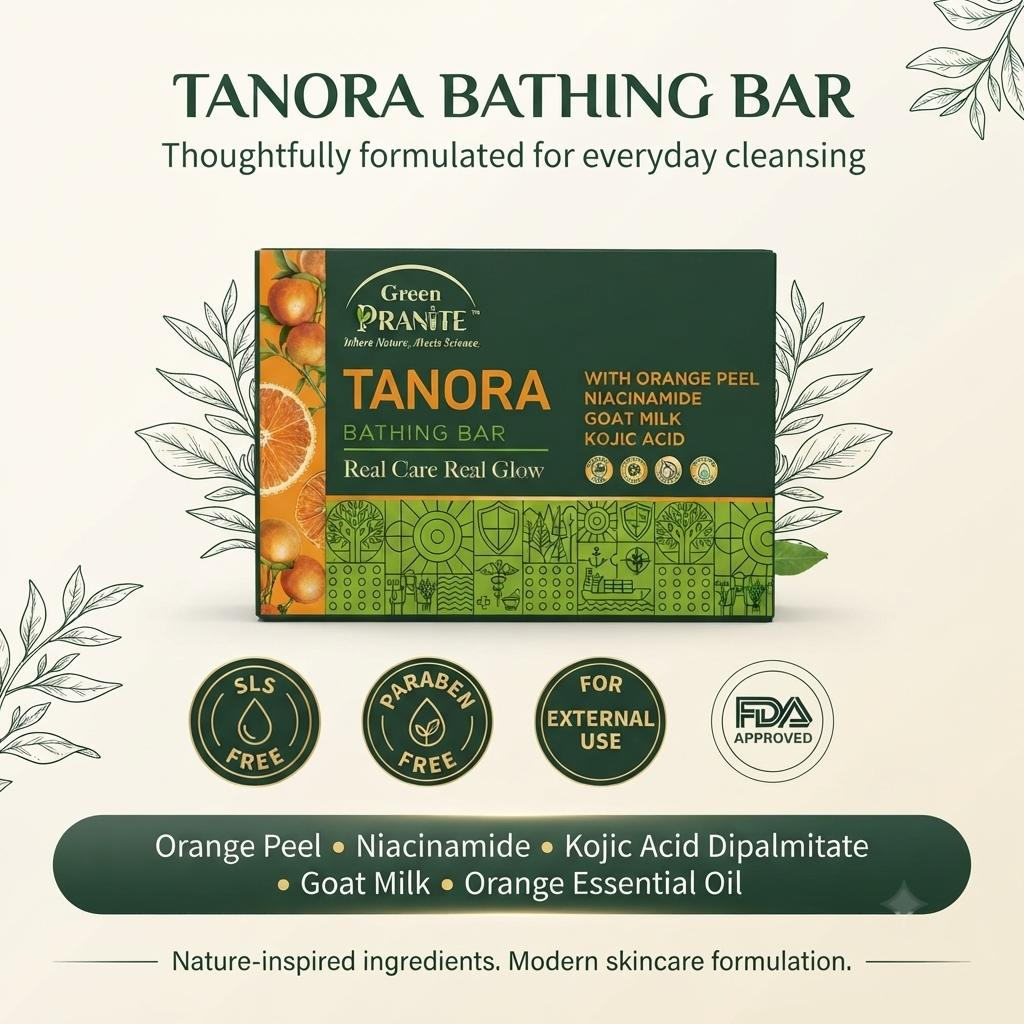
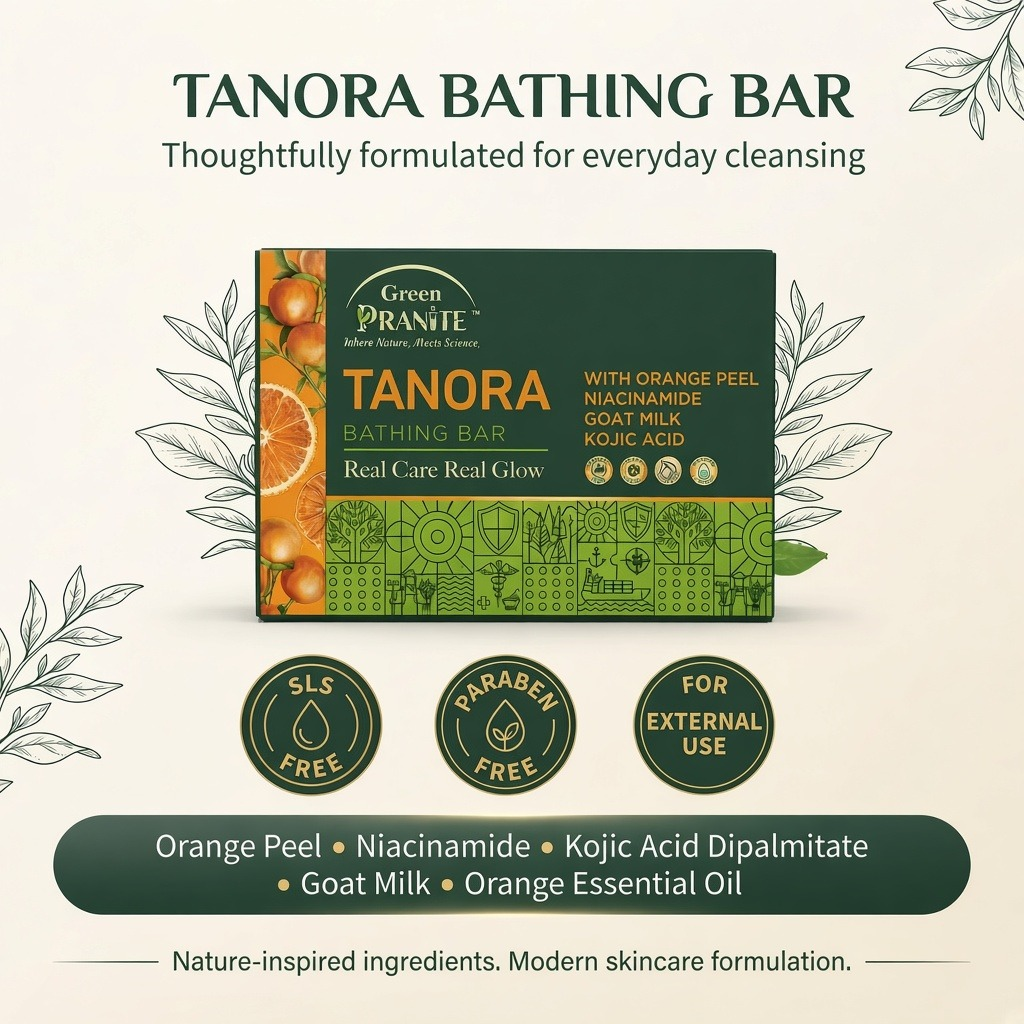
Remove FDA claims from TANORA marketing
This update removes FDA-approved messaging from TANORA Bathing Bar marketing materials, including the hero image alt text, product copy, and product claim metadata. It keeps the product positioning focused on cruelty-free and sulfate/paraben-free attributes while aligning the content with the current approved brand claims.

diff --git a/src/components/home/TanoraHighlight.tsx b/src/components/home/TanoraHighlight.tsx
@@ -80,7 +80,7 @@ export function TanoraHighlight({
           <div data-card className="relative aspect-square overflow-hidden rounded-[2rem] bg-cream-100 will-change-transform md:rounded-[2.5rem]">
             <Image
               src={bathingBar}
-              alt="TANORA Bathing Bar packaging surrounded by botanical line art, with SLS-free, paraben-free and FDA approved marks."
+              alt="TANORA Bathing Bar packaging surrounded by botanical line art, with SLS-free and paraben-free marks."
               fill
               placeholder="blur"
               sizes="(min-width: 768px) 46vw, 92vw"
@@ -138,7 +138,7 @@ export function TanoraHighlight({
           </Reveal>
           <Reveal delay={0.26}>
             <p className="mt-6 flex items-center gap-2 text-sm text-sage-300">
-              <Icon name="truck" className="size-4" /> Free standard shipping · FDA-approved · Zero sulfates &amp; parabens
+              <Icon name="truck" className="size-4" /> Free standard shipping · Zero sulfates &amp; parabens
             </p>
           </Reveal>
         </div>

diff --git a/src/content/products.ts b/src/content/products.ts
@@ -52,7 +52,7 @@ const tanora: ProductContent = {
     closingTitle: "Pure. Honest. Uncompromising.",
     closing:
       "You deserve premium skincare you can trust implicitly. Designed for daily use on both the face and body, TANORA delivers a dense, spa-like lather that respects your skin's delicate balance.",
-    claims: ["FDA-Approved", "100% Cruelty-Free", "Zero Sulfates & Parabens"],
+    claims: ["100% Cruelty-Free", "Zero Sulfates & Parabens"],
     signoff: "Experience the profound confidence of truly healthy, harmonious skin. Real care. Real results.",
   },
   benefits: [
@@ -112,7 +112,6 @@ const tanora: ProductContent = {
     { icon: "sls", label: "SLS free" },
     { icon: "paraben", label: "Paraben free" },
     { icon: "rabbit", label: "Cruelty free" },
-    { icon: "shield", label: "FDA approved" },
     { icon: "flask", label: "Lab tested" },
   ],
   resultsImage: {
